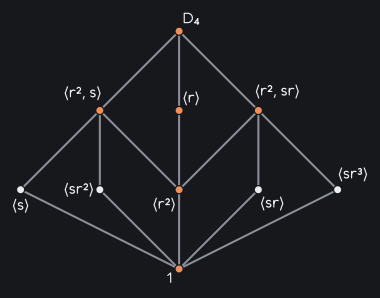
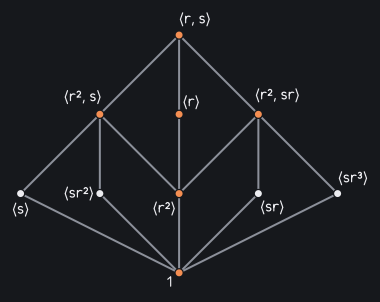
Dihedral group figures: the subgroups' and elements' names tied to Mathlib's objects, the vertices written out; a Cayley table's rules compared with their colour

diff --git a/docs/PROOFS.md b/docs/PROOFS.md
@@ -410,7 +410,9 @@ Its figures (`PILeanMathlib/Examples/Algebra.lean`): the Cayley table of `Dihedr
 (`d4TableFigure_spec`: the entries are the products, a group, not commutative, centre `{1, r 2}`),
 its Cayley graph (`d4CayleyFigure_spec`), its lattice of subgroups (`d4SubgroupsFigure_spec`: the
 ten drawn subgroups are all the subgroups, each once, decided over the 256 subsets of the group;
-the edges are `⋖`; a dot is in colour exactly when its subgroup is `Normal`), a `CommSq` of
+each is named by generators and is the subgroup they generate, `Subgroup.closure`, the names of
+the generators being those of `d4Name`; the edges are `⋖`; a dot is in colour exactly when its
+subgroup is `Normal`; the names the table writes are `d4Name` of the elements), a `CommSq` of
 reductions in `Type` (`commSqFigure_spec`) and the drawing of a short exact sequence
 (`shortExactFigure_spec`, for every short complex of a preadditive category with a zero object).
 
